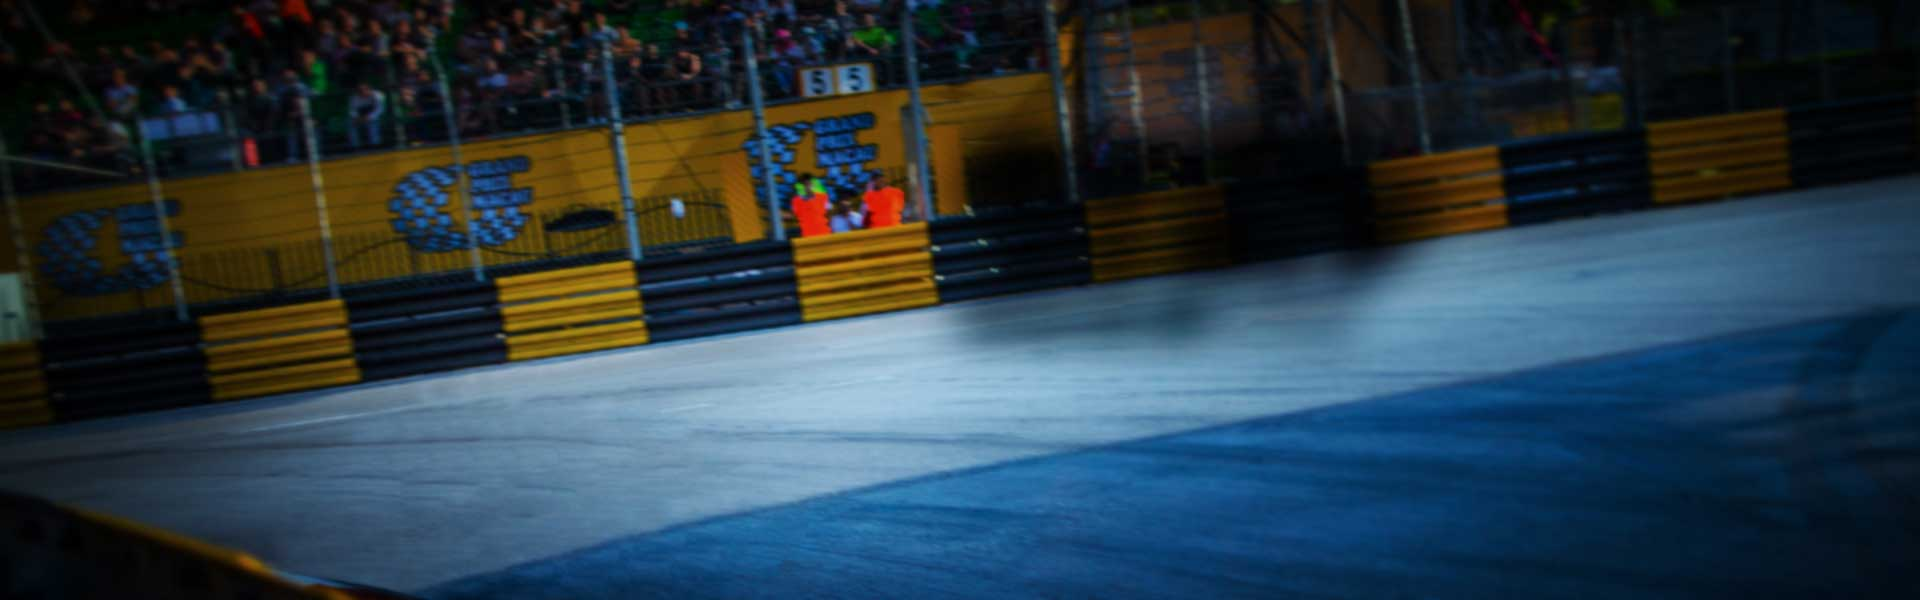
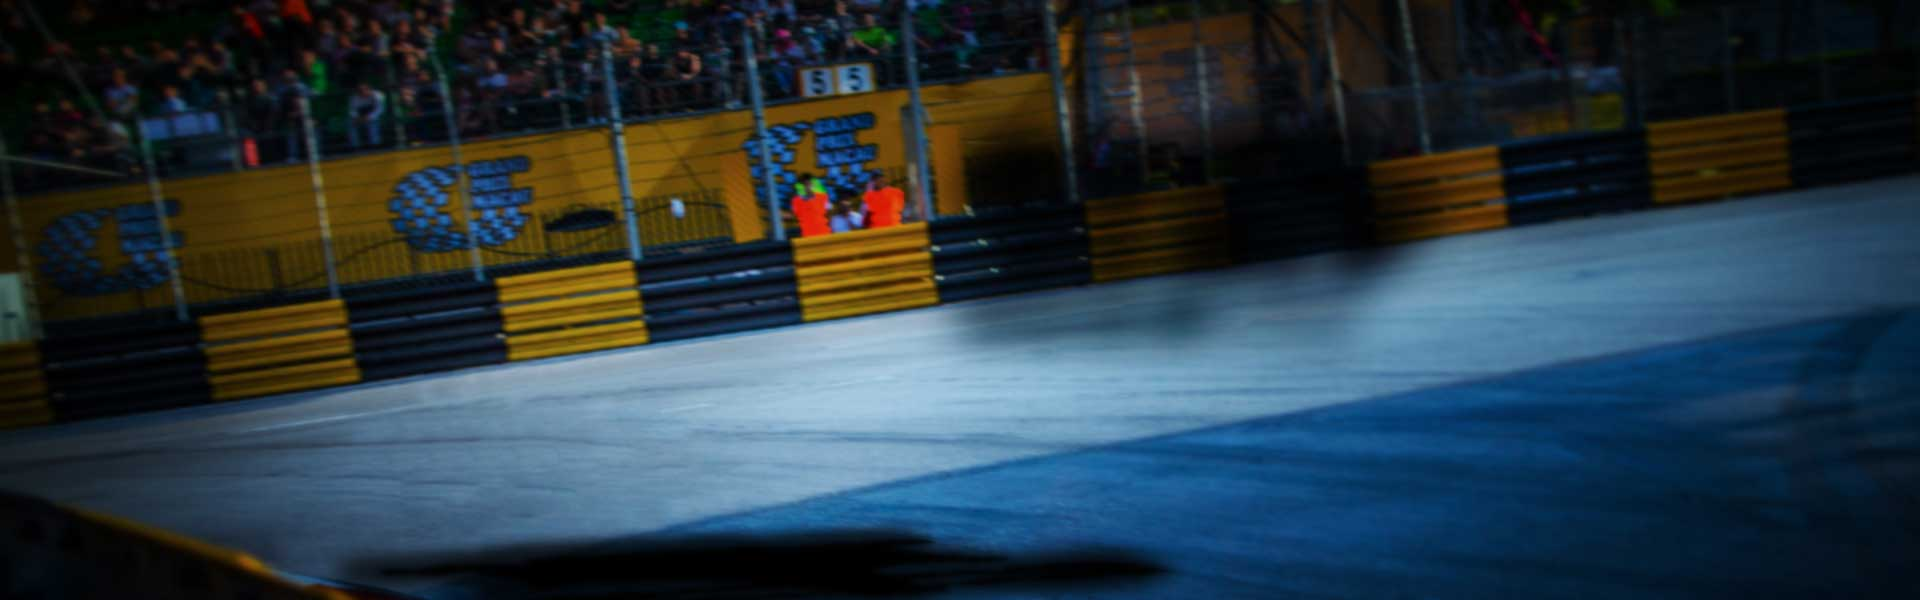
1
1

Changed region(s): [[0.1562, 0.87, 0.625, 1.0]]

diff --git a/aomen3/css/index.css b/aomen3/css/index.css
@@ -16,8 +16,10 @@ i{ font-style:normal;}
 
 .banner { background: url(../images/bg.jpg) no-repeat center 0, url(../images/bg2.jpg) no-repeat center bottom; height: 700px;position: relative;}
 .banner .lvLogo { position: absolute; left: 50%; margin-left:-460px; top:0; z-index: 2; width: 460px; height: 80px; background: url(../images/lvLogo.png);}
-.banner h2 { position: absolute; left: 50%; margin-left:-20px; z-index: 2; width: 520px; height: 600px; background: url(../images/tit.png) -30px;}
-.banner .rac{ position: absolute; left: 50%; margin-left: -960px; top:0px; z-index: 2; width: 1000px; height: 700px; background: url(../images/RAC.png);}
+.banner h2,.banner .titLight { position: absolute; left: 50%; margin-left:-160px; width: 660px; height: 600px;}
+.banner h2 { z-index: 2; background: url(../images/tit.png) -30px;}
+.banner .titLight { z-index: 1; background: url(../images/titLight.png) -30px;}
+.banner .rac{ position: absolute; left: 50%; margin-left: -960px; top:0px; z-index: 2; width: 1200px; height: 700px; background: url(../images/RAC.png);}
 
 .zt-content{width: 1000px;margin: 0 auto;position: relative;z-index: 2;}
 .zt-video{width: 640px; height: 400px;margin: 0 auto;background: rgba(120,129,107,0.3);margin-top: -100px;}

diff --git a/aomen3/index.html b/aomen3/index.html
@@ -13,7 +13,7 @@
 <script src="http://s2.lvjs.com.cn/styles/zt/000global/js/ztTopMenu.js" type="text/javascript"></script>
 <!--专题公共头部END-->
 <div class="zt-wrap">
-	<div class="banner"><div class="lvLogo"></div><h2></h2><div class="rac"></div></div>    
+	<div class="banner"><div class="lvLogo"></div><div class="titLight"></div><h2></h2><div class="rac"></div></div>    
     <div class="zt-content">
         <!-- 视频 -->
         <div class="zt-video">
